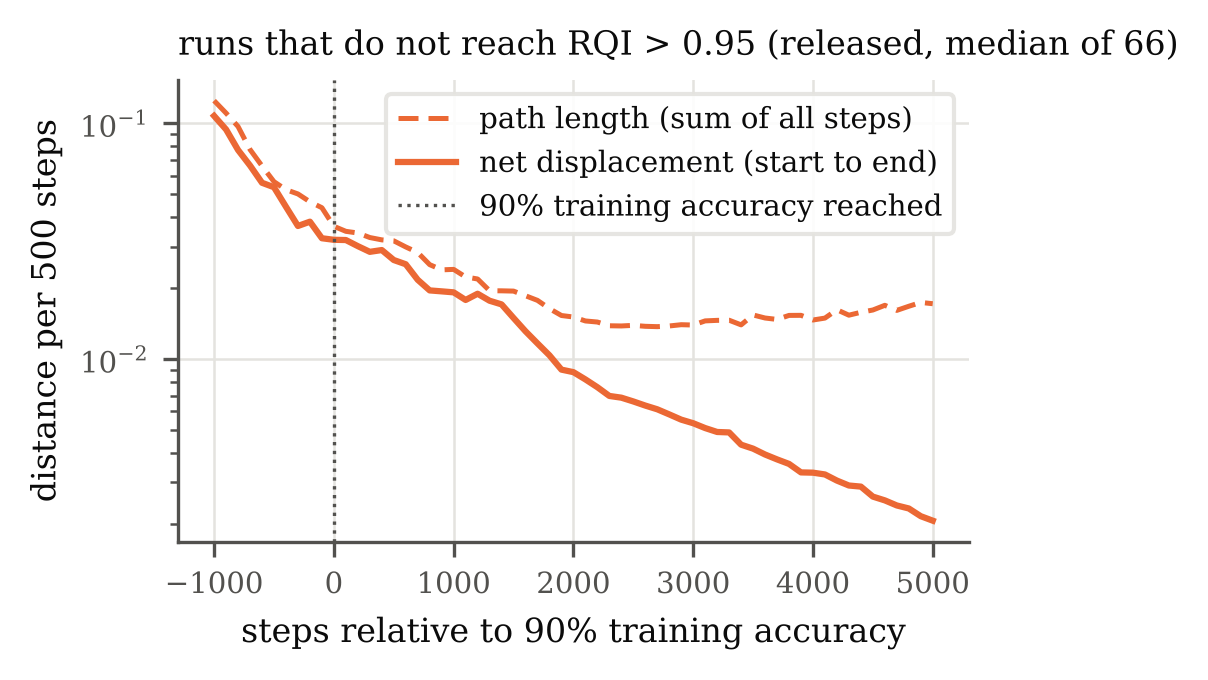
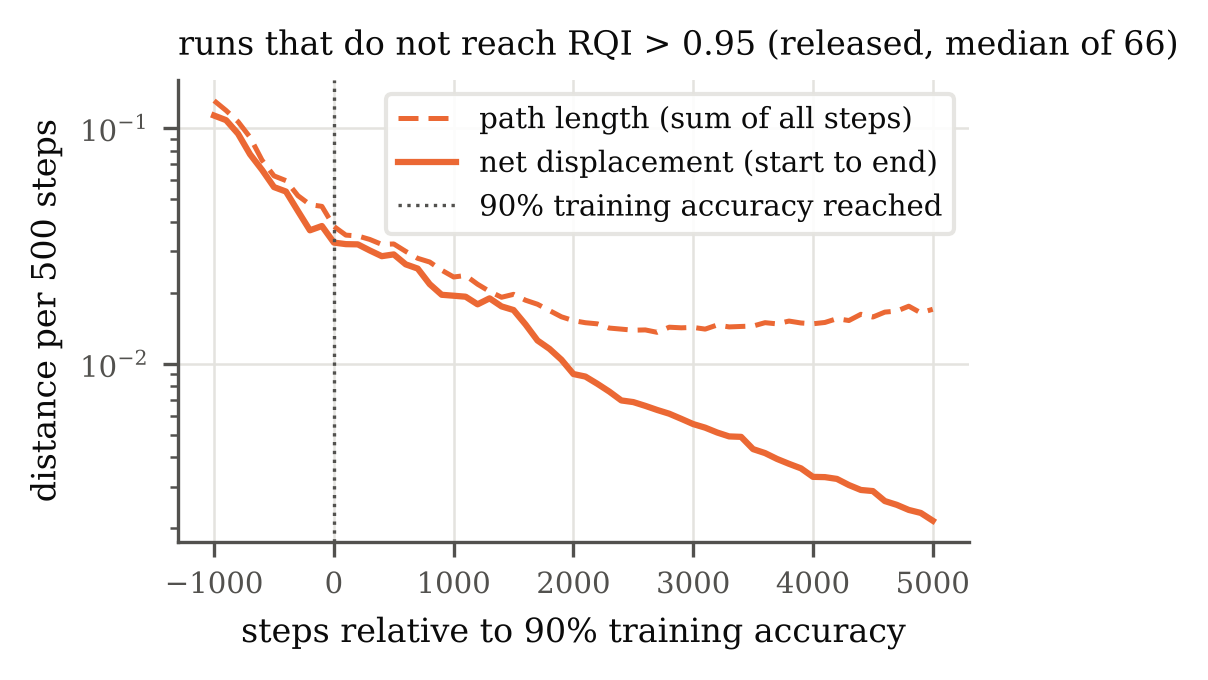
Safe resuming and fresh reproduction, aligned movement windows, README matches the report, tested platform

diff --git a/experiments/analyse.py b/experiments/analyse.py
@@ -13,9 +13,18 @@ nested training sets, so they are not independent across training sizes. Setting
 are therefore compared with an exact sign test over the 20 seeds (seed = unit),
 as in A2. Everything else is descriptive.
 
-Usage: python experiments/analyse.py
+Movement windows. Embedding snapshots are saved at steps 99, 199, ..., and the
+per-step movement and gradient norms in 10-step blocks. Every movement window
+therefore runs between two snapshots, and its path length and mean gradient norm
+are taken over exactly the same steps. The pre-fit window ends at the last
+snapshot at or before the fit (at most 99 steps before it).
+
+Usage: python experiments/analyse.py [--results-root results]
+  With --results-root DIR (e.g. a fresh reproduction), the analysis reads DIR/<tag>/
+  and writes DIR/analysis/ and DIR/figures/ instead of results/analysis/ and figures/.
 """
 
+import argparse
 import csv
 import os
 
@@ -94,6 +103,14 @@ def per_seed_successes(rows):
 
 
 def main():
+    global RES, OUT, FIG
+    ap = argparse.ArgumentParser()
+    ap.add_argument("--results-root", default=None,
+                    help="read <root>/<tag>/ and write <root>/analysis and <root>/figures")
+    a = ap.parse_args()
+    if a.results_root:
+        RES = os.path.abspath(a.results_root)
+        OUT, FIG = os.path.join(RES, "analysis"), os.path.join(RES, "figures")
     os.makedirs(OUT, exist_ok=True)
     os.makedirs(FIG, exist_ok=True)
     allrows = {t: load(t) for t in SETTINGS}
@@ -192,7 +209,8 @@ def main():
             + str([(int(r['n_train']), int(r['seed']), round(r['final_rqi'], 3)) for r in low]))
 
     # ---------------- 3. H1: movement after the fit ----------------
-    say("\n3. Movement of the normalised embeddings, failures (fit between steps 1,000 and 7,000)")
+    say("\n3. Movement of the normalised embeddings, failures (fit between steps 1,000 and "
+        "7,000, at least 10 snapshots before the fit); windows between embedding snapshots")
     tab = []
     for t in ["released", "dec_lr_1e-3", "emb_lr_3e-3", "emb_lr_1e-2"]:
         m = movement(t, [r for r in data[t] if not r["ok"]])
@@ -267,24 +285,42 @@ def med(x):
     return float(np.median(x)) if len(x) else np.nan
 
 
+def snapshot_before(d, t):
+    """Index of the last embedding snapshot at or before step t (-1 if none)."""
+    return int(np.searchsorted(d["E_step"], t, side="right")) - 1
+
+
+def window(d, j0, j1):
+    """Net displacement, path length and mean gradient norm of the normalised
+    embeddings between snapshots j0 < j1, i.e. over steps E_step[j0]+1 ... E_step[j1].
+
+    speed_norm[w] and grad_emb[w] cover steps 10w ... 10w+9, and E_step[j] = 100j + 99,
+    so these steps are exactly the blocks 10*j0 + 10 ... 10*j1 + 9."""
+    E, Es = d["E_norm"], d["E_step"]
+    a, b = (Es[j0] + 1) // 10, (Es[j1] + 1) // 10
+    assert a * 10 == Es[j0] + 1 and b * 10 == Es[j1] + 1, "snapshots not on block edges"
+    return (float(np.linalg.norm(E[j1] - E[j0])), float(d["speed_norm"][a:b].sum()),
+            float(d["grad_emb"][a:b].mean()))
+
+
 def movement(tag, rows, lo=1000, hi=7000):
-    """Late (last 1,000 steps) vs pre-fit (1,000 steps before the fit) ratios."""
+    """Last 1,000 steps vs the 1,000 steps ending at the last snapshot before the fit."""
     net, path, grad = [], [], []
     for r in rows:
         t90 = int(r["iter_train90"])
         if not (r["fit"] and lo <= t90 <= hi):
             continue
         d = trace(tag, r)
-        i, j = t90 // 10, t90 // 100
-        E = d["E_norm"]
-        pre_net = np.linalg.norm(E[j] - E[j - 10])
-        late_net = np.linalg.norm(E[-1] - E[-11])
-        pre_path, late_path = d["speed_norm"][i - 100:i].sum(), d["speed_norm"][-100:].sum()
-        pre_g, late_g = d["grad_emb"][i - 100:i].mean(), d["grad_emb"][-100:].mean()
-        if pre_net > 0:
-            net.append(late_net / pre_net)
-        path.append(late_path / pre_path)
-        grad.append(late_g / pre_g)
+        j = snapshot_before(d, t90)
+        if j < 10:  # no complete 1,000-step window before the fit
+            continue
+        pre = window(d, j - 10, j)
+        n = len(d["E_step"])
+        late = window(d, n - 11, n - 1)
+        if pre[0] > 0:
+            net.append(late[0] / pre[0])
+        path.append(late[1] / pre[1])
+        grad.append(late[2] / pre[2])
     return dict(net=net, path=path, grad=grad)
 
 
@@ -353,24 +389,25 @@ def fig_race(data):
 
 def fig_movement(data, tag="released"):
     """Failures: net displacement vs path length of the normalised embeddings,
-    per 500 steps, aligned to the fit."""
-    offs = np.arange(-1000, 5001, 100)
+    per 500 steps, aligned to the last snapshot at or before the fit. A point at
+    offset o is the 500-step window that starts o steps after that snapshot."""
+    ks = np.arange(-10, 51)  # window starts, in snapshots (100 steps) from the fit
+    offs = ks * 100
     net, path = [], []
     for r in data[tag]:
         if r["ok"] or not r["fit"] or not (1000 <= r["iter_train90"] <= 4500):
             continue
         d = trace(tag, r)
-        E, Es = d["E_norm"], d["E_step"]
-        sp, st = d["speed_norm"], d["step"]
-        t90 = r["iter_train90"]
+        j = snapshot_before(d, r["iter_train90"])
+        n = len(d["E_step"])
+        if j < 10:
+            continue
         a, b = [], []
-        for o in offs:
-            t = t90 + o
-            j = np.searchsorted(Es, t)
-            i = np.searchsorted(st, t)
-            if j + 5 < len(Es):
-                a.append(np.linalg.norm(E[j + 5] - E[j]))
-                b.append(sp[i:i + 50].sum())
+        for k in ks:
+            if 0 <= j + k and j + k + 5 < n:
+                w = window(d, j + k, j + k + 5)
+                a.append(w[0])
+                b.append(w[1])
             else:
                 a.append(np.nan)
                 b.append(np.nan)

diff --git a/experiments/run_sweep.py b/experiments/run_sweep.py
@@ -1,17 +1,27 @@
 """
-One configuration of the A3 sweep: 11 training set sizes x 20 seeds, as in A2,
-with per-step logging (src/logged_training.py).
+One configuration of the A3 sweep: 11 training set sizes x 20 seeds, with
+per-step logging (src/logged_training.py).
 
 Released setting (authors' produce_figure_data.py): p = 10, sizes 5, 10, ..., 50, 54,
 10^4 steps, AdamW, embedding lr 1e-3, decoder lr 1e-4, no weight decay, MSE.
 
-Outputs
-  results/<tag>/runs.csv              one row per run (events and final values)
-  results/<tag>/traces/n<NN>_s<SS>.npz  curves every 10 steps
-Rows are appended run by run, and finished (size, seed) pairs are skipped on a
-restart, so an interrupted sweep can simply be started again.
+Outputs (under --out-root, default results/)
+  <out-root>/<tag>/config.json           the configuration of this sweep
+  <out-root>/<tag>/runs.csv              one row per run (events and final values)
+  <out-root>/<tag>/traces/n<NN>_s<SS>.npz  curves every 10 steps
 
-Example
+Resuming. Rows are appended run by run, and finished (size, seed) pairs are
+skipped when the same command is started again. Before resuming, the stored
+configuration (config.json, and the configuration columns of runs.csv) must
+match the requested one exactly; otherwise the script stops, so that runs with
+different settings are never mixed under one tag.
+
+Fresh reproduction. The repository already contains the finished results, so
+re-running with the default output root only resumes (and skips everything).
+To regenerate the experiments from scratch, use a new output root:
+  python experiments/run_sweep.py --tag released --out-root results_fresh
+
+Examples
   python experiments/run_sweep.py --tag released
   python experiments/run_sweep.py --tag dec_lr_1e-3 --eta-dec 1e-3
   python experiments/run_sweep.py --tag emb_lr_1e-2 --eta-reprs 1e-2
@@ -19,6 +29,7 @@ Example
 
 import argparse
 import csv
+import json
 import os
 import sys
 import time
@@ -42,9 +53,29 @@ def one_run(args):
     return s
 
 
+def check_config(out, cfg, path):
+    """Stop if this tag already holds runs with a different configuration."""
+    cfg_path = os.path.join(out, "config.json")
+    if os.path.exists(cfg_path):
+        stored = json.load(open(cfg_path))
+        if stored != cfg:
+            sys.exit(f"[stop] {cfg_path} holds {stored}, but this call asks for {cfg}. "
+                     "Use a different --tag or --out-root.")
+    if os.path.exists(path):
+        # results from before config.json existed: check the columns of runs.csv
+        for r in csv.DictReader(open(path)):
+            row = {k: (int(float(r[k])) if k == "steps" else float(r[k])) for k in cfg}
+            if row != cfg:
+                sys.exit(f"[stop] {path} contains runs with {row}, but this call asks "
+                         f"for {cfg}. Use a different --tag or --out-root.")
+    json.dump(cfg, open(cfg_path, "w"), indent=2)
+
+
 def main():
     ap = argparse.ArgumentParser()
     ap.add_argument("--tag", required=True)
+    ap.add_argument("--out-root", default=os.path.join(ROOT, "results"),
+                    help="folder that holds one subfolder per tag (default: results/)")
     ap.add_argument("--seeds", type=int, default=20)
     ap.add_argument("--steps", type=int, default=10_000)
     ap.add_argument("--eta-reprs", type=float, default=1e-3)  # authors' default
@@ -54,16 +85,19 @@ def main():
     a = ap.parse_args()
 
     cfg = dict(steps=a.steps, eta_reprs=a.eta_reprs, eta_dec=a.eta_dec, wd_dec=a.wd_dec)
-    out = os.path.join(ROOT, "results", a.tag)
+    out = os.path.join(a.out_root, a.tag)
     os.makedirs(os.path.join(out, "traces"), exist_ok=True)
     path = os.path.join(out, "runs.csv")
+    check_config(out, cfg, path)
 
     done = set()
     if os.path.exists(path):
         for r in csv.DictReader(open(path)):
             done.add((int(r["n_train"]), int(r["seed"])))
     jobs = [(n, s, cfg, out) for s in range(a.seeds) for n in SIZES if (n, s) not in done]
-    print(f"[{a.tag}] {len(done)} done, {len(jobs)} to run, config {cfg}", flush=True)
+    print(f"[{a.tag}] {out}: {len(done)} done, {len(jobs)} to run, config {cfg}", flush=True)
+    if not jobs:
+        return
 
     with get_context("spawn").Pool(a.workers) as pool:
         for k, s in enumerate(pool.imap_unordered(one_run, jobs), 1):

diff --git a/README.md b/README.md
@@ -9,15 +9,18 @@ NeurIPS 2022. [arXiv:2205.10343](https://arxiv.org/abs/2205.10343)
 ## Question
 
 Liu et al. explain their phase diagram as a *competition between representation
-learning and decoder overfitting* (Sec. 4.1), but show it only for averages over a
-hyperparameter grid. This repository tests the explanation **run by run**, in the
-regression toy model (addition, p = 10) without weight decay:
+learning and decoder overfitting* (Sec. 4.1), shown with phase diagrams over
+hyperparameters. This repository examines the competition **inside individual runs**
+of the regression toy model (addition, p = 10) without weight decay:
 
-- **H1, freezing:** once the decoder fits the training set, the embeddings almost
-  stop changing.
+- **H1, no further improvement:** once the decoder has fit the training set, the
+  representation (RQI) stops improving. Embedding movement and gradient norms are
+  recorded as diagnostics: in failed runs the embeddings keep moving back and forth,
+  but without net progress, and the RQI usually stops improving before the fit.
 - **H2, the race:** among runs whose training set determines the linear
-  representation (λ_3 > 0), the RQI reached at the moment the decoder fits the
-  training set predicts whether the run reaches RQI > 0.95.
+  representation (λ_3 > 0), the RQI at the moment the decoder fits the training set
+  separates runs that reach RQI > 0.95 from runs that do not. This describes the
+  trajectories; most successful runs had already passed 0.95 by then.
 - **H3, intervention:** a faster embedding learning rate helps, as a slower decoder does.
 
 **Definitions.**
@@ -34,12 +37,14 @@ src/logged_training.py       runs the authors' train_add unmodified and records 
 src/effective_theory.py      λ_3 of a training set (spectrum of H, eq. 8)
 experiments/check_exact.py   (1) the recording does not change training (exact equality);
                              (2) the released setting reproduces earlier runs
-experiments/run_sweep.py     one configuration: 11 training set sizes x 20 seeds, resumable
-experiments/run_all.sh       all configurations
+experiments/run_sweep.py     one configuration: 11 training set sizes x 20 seeds, resumable;
+                             refuses to resume a tag whose stored configuration differs
+experiments/run_all.sh       all configurations (OUT_ROOT=... for a separate output folder)
 experiments/analyse.py       every number and figure in the report (seed-level sign tests)
 results/analysis/            summary.txt (all quoted numbers) and per-setting tables
 figures/                     report figures (PDF and PNG)
 results/<tag>/runs.csv       one row per run; results/<tag>/traces/*.npz: curves every 10 steps
+results/<tag>/config.json    the configuration of that sweep
 results/a2_reference/        reference runs of the released setting, used by check_exact.py
 third_party/grokking-squared/  authors' code, unmodified (MIT), pinned at 0229df9 (2022-11-25)
 ```
@@ -60,9 +65,36 @@ nested training sets across sizes, so statistical tests use the **seed** as the 
 
 ## Reproduce
 
+**Tested platform.** All training runs and the analysis were run on Ubuntu 24.04
+(Linux, x86_64), Python 3.13.16, CPU only (2 cores), with the versions pinned in
+`requirements.txt` (pip installed the Linux wheel `torch 2.14.1+cu130`; no GPU was used).
+As far as I know, recent PyTorch releases no longer provide wheels for Intel
+(x86_64) macOS, so the pinned `torch==2.14.1` will not install there; use Linux, or
+an Apple-silicon Mac, where training has not been tested.
+
 ```bash
 pip install -r requirements.txt        # pinned versions, Python 3.13
-python experiments/check_exact.py      # ~3 min
-experiments/run_all.sh                 # ~55 min per configuration on 2 CPU cores
-python experiments/analyse.py          # ~1 min
+python experiments/check_exact.py      # ~3 min: logging leaves training unchanged
+python experiments/analyse.py          # ~1 min: all numbers and figures from results/
 ```
+
+**Results are included.** `results/` already contains all 1100 runs. Running
+`experiments/run_all.sh` as it is therefore only *resumes*: it finds every run done
+and skips it.
+
+**Fresh reproduction.** To regenerate the experiments from scratch, write them to a
+separate folder and analyse that folder:
+
+```bash
+OUT_ROOT=results_fresh experiments/run_all.sh                 # ~55 min per configuration on 2 CPU cores
+python experiments/analyse.py --results-root results_fresh   # writes results_fresh/analysis and results_fresh/figures
+```
+
+Each sweep stores its configuration in `<out-root>/<tag>/config.json`. If a tag is
+reused with a different learning rate, weight decay or step budget, `run_sweep.py`
+stops instead of mixing configurations.
+
+**Movement windows.** Embedding snapshots are stored every 100 steps (steps 99, 199,
+...). Every movement window in `analyse.py` runs between two snapshots, and path
+length and gradient norms are taken over exactly the same steps; the pre-fit window
+ends at the last snapshot at or before the fit.
